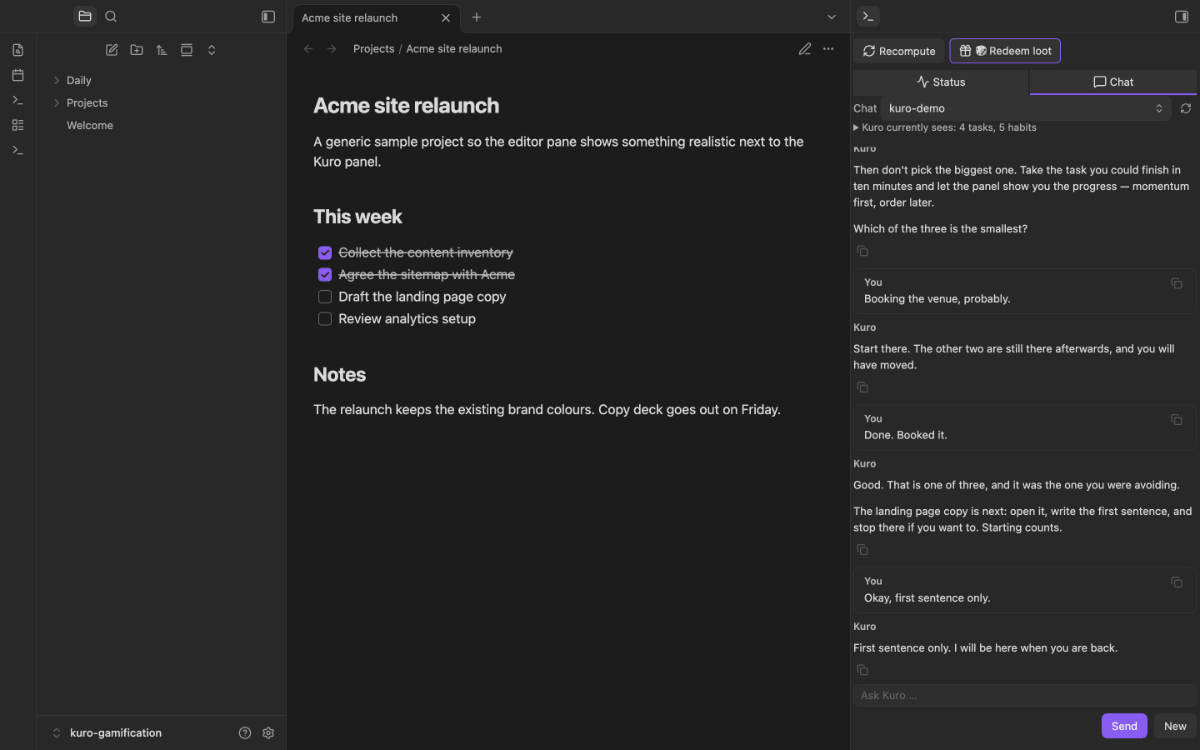
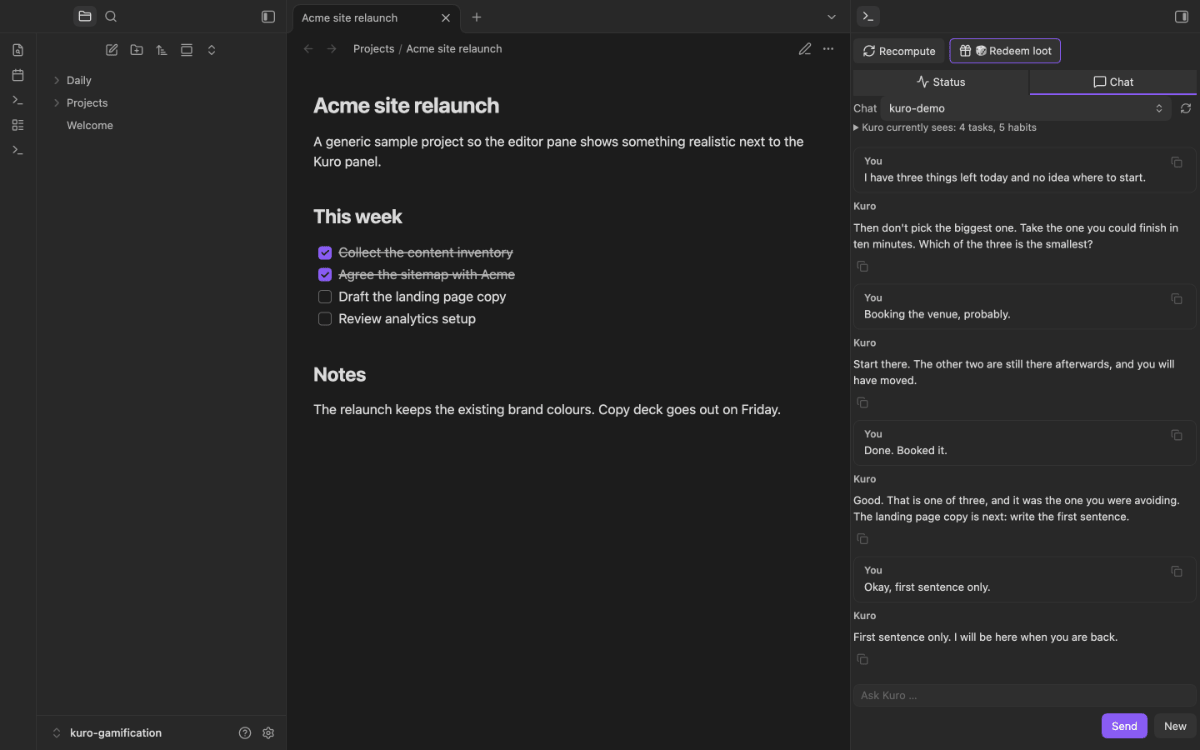
docs(images): chat.png beginnt an einer Nachrichtengrenze, das Rezept prüft den Überlauf

Changed region(s): [[0.7092, 0.552, 1.0, 0.8893], [0.7092, 0.184, 0.9867, 0.3373], [0.7092, 0.368, 0.9867, 0.5213]]

diff --git a/scripts/shots.ts b/scripts/shots.ts
@@ -259,11 +259,11 @@ const SHOTS: Shot[] = [
         if (!(await sidebarBereit(cdp))) return null;
         const zeilen = [
           { kind: 'user', text: 'I have three things left today and no idea where to start.' },
-          { kind: 'assistant', text: "Then don't pick the biggest one. Take the task you could finish in ten minutes and let the panel show you the progress — momentum first, order later.\n\nWhich of the three is the smallest?" },
+          { kind: 'assistant', text: "Then don't pick the biggest one. Take the one you could finish in ten minutes. Which of the three is the smallest?" },
           { kind: 'user', text: 'Booking the venue, probably.' },
           { kind: 'assistant', text: 'Start there. The other two are still there afterwards, and you will have moved.' },
           { kind: 'user', text: 'Done. Booked it.' },
-          { kind: 'assistant', text: 'Good. That is one of three, and it was the one you were avoiding.\n\nThe landing page copy is next: open it, write the first sentence, and stop there if you want to. Starting counts.' },
+          { kind: 'assistant', text: 'Good. That is one of three, and it was the one you were avoiding. The landing page copy is next: write the first sentence.' },
           { kind: 'user', text: 'Okay, first sentence only.' },
           { kind: 'assistant', text: 'First sentence only. I will be here when you are back.' },
         ].map((z, i) => (z.kind === 'user' ? { ...z, id: i + 1 } : { ...z, id: i + 1, reasoning: '', state: 'done' }));
@@ -287,6 +287,14 @@ const SHOTS: Shot[] = [
           8000,
         );
         if (!da) return null;
+        // Das Gespräch beginnt an einer Nachrichtengrenze: ein angeschnittener Name am oberen Rand sähe im Store-Bild wie ein Fehler aus (Master, Welle 27).
+        // Die Texte oben sind so gekürzt, dass der Verlauf in den Ausschnitt passt; läuft er über (Schrift, Breite, ein Kit-Update), gibt es kein Bild statt eines
+        // angeschnittenen.
+        const passt = await cdp.evaluate<{ ueberlauf: number }>(`
+          const log = ${VIEW_EL}?.querySelector(".okit-chat-log");
+          return { ueberlauf: log ? log.scrollHeight - log.clientHeight : 9999 };
+        `);
+        if (passt.ueberlauf > 1) return null;
         // Das ganze Fenster, nicht nur die Leiste: der Ausschnitt allein kam auf H/B 2.7 und sprengte die `feature`-Grenze von 1.6 — und ein
         // hochkantiger Streifen lässt offen, wo der Chat im Fenster sitzt. Die Notiz daneben erklärt das Plugin besser.
         await sidebarBox(cdp);

diff --git a/docs/images/README.md b/docs/images/README.md
@@ -55,7 +55,7 @@ Level, Gesamt-XP, Streak und Tagesstand im Bild hat Kuro daraus selbst ausgerech
 Wert im Treiber ist gesetzt. Feste Datumsangaben wären am Tag nach dem Commit eine
 abgerissene Streak — das Bild dokumentierte dann den Aufnahmetag statt das Plugin.
 
-**2. Der Chat-Verlauf wird gesetzt, gerendert wird echt.** Die acht Nachrichten in `chat.png` stehen im Rezept als `chat-history`-Daten. Ein Modell liefert bei jedem Lauf anderen Text, und zwei Aufnahmen sollen dasselbe Bild ergeben. Gesetzt sind nur die Nachrichten (`plugin.chatHistory`, danach `syncChatUI()`) — der Weg dorthin ist der Produktionspfad (das Kit-Fenster bekommt sie als `initial`), und Modellzeile, Kontext-Ausklapper und Layout im Bild sind damit echt.
+**2. Der Chat-Verlauf wird gesetzt, gerendert wird echt.** Die acht Nachrichten in `chat.png` stehen im Rezept als `chat-history`-Daten. Ein Modell liefert bei jedem Lauf anderen Text, und zwei Aufnahmen sollen dasselbe Bild ergeben. Gesetzt sind nur die Nachrichten (`plugin.chatHistory`, danach `syncChatUI()`) — der Weg dorthin ist der Produktionspfad (das Kit-Fenster bekommt sie als `initial`), und Modellzeile, Kontext-Ausklapper und Layout im Bild sind damit echt. Das Gespräch ist so lang, dass es ohne Rollen in den Ausschnitt passt und mit einer Nachrichtengrenze beginnt (ein angeschnittener Name am oberen Rand sähe im Store-Bild wie ein Fehler aus); das Rezept prüft den Überlauf des Verlaufs und liefert bei einem Überlauf kein Bild statt eines angeschnittenen.
 
 ## Was der Treiber am Wirt ändert (und warum)
 
